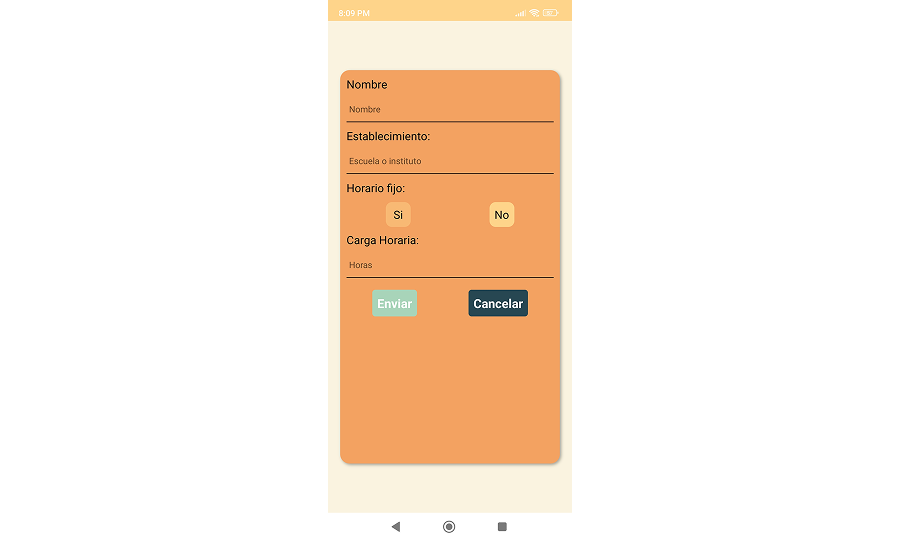
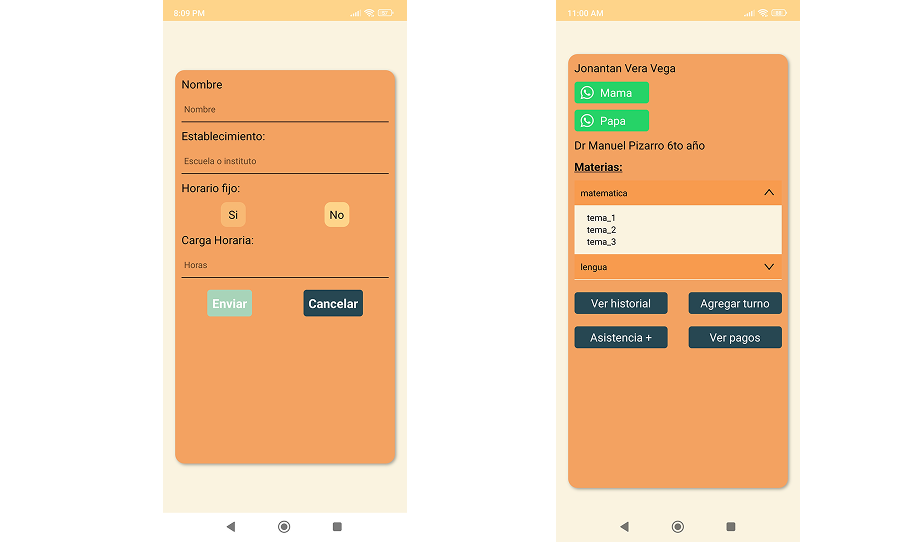
readme fixed

diff --git a/README.md b/README.md
@@ -50,6 +50,6 @@ A continuación, algunas imágenes de muestra de la aplicación:
 1. Clona el repositorio:
 
    ```bash
-   git clone https://github.com/jakiro12/academia_v1_.git
+   git clone https://github.com/jakiro12/academia_v1
    cd academia_v1
    npx expo start
